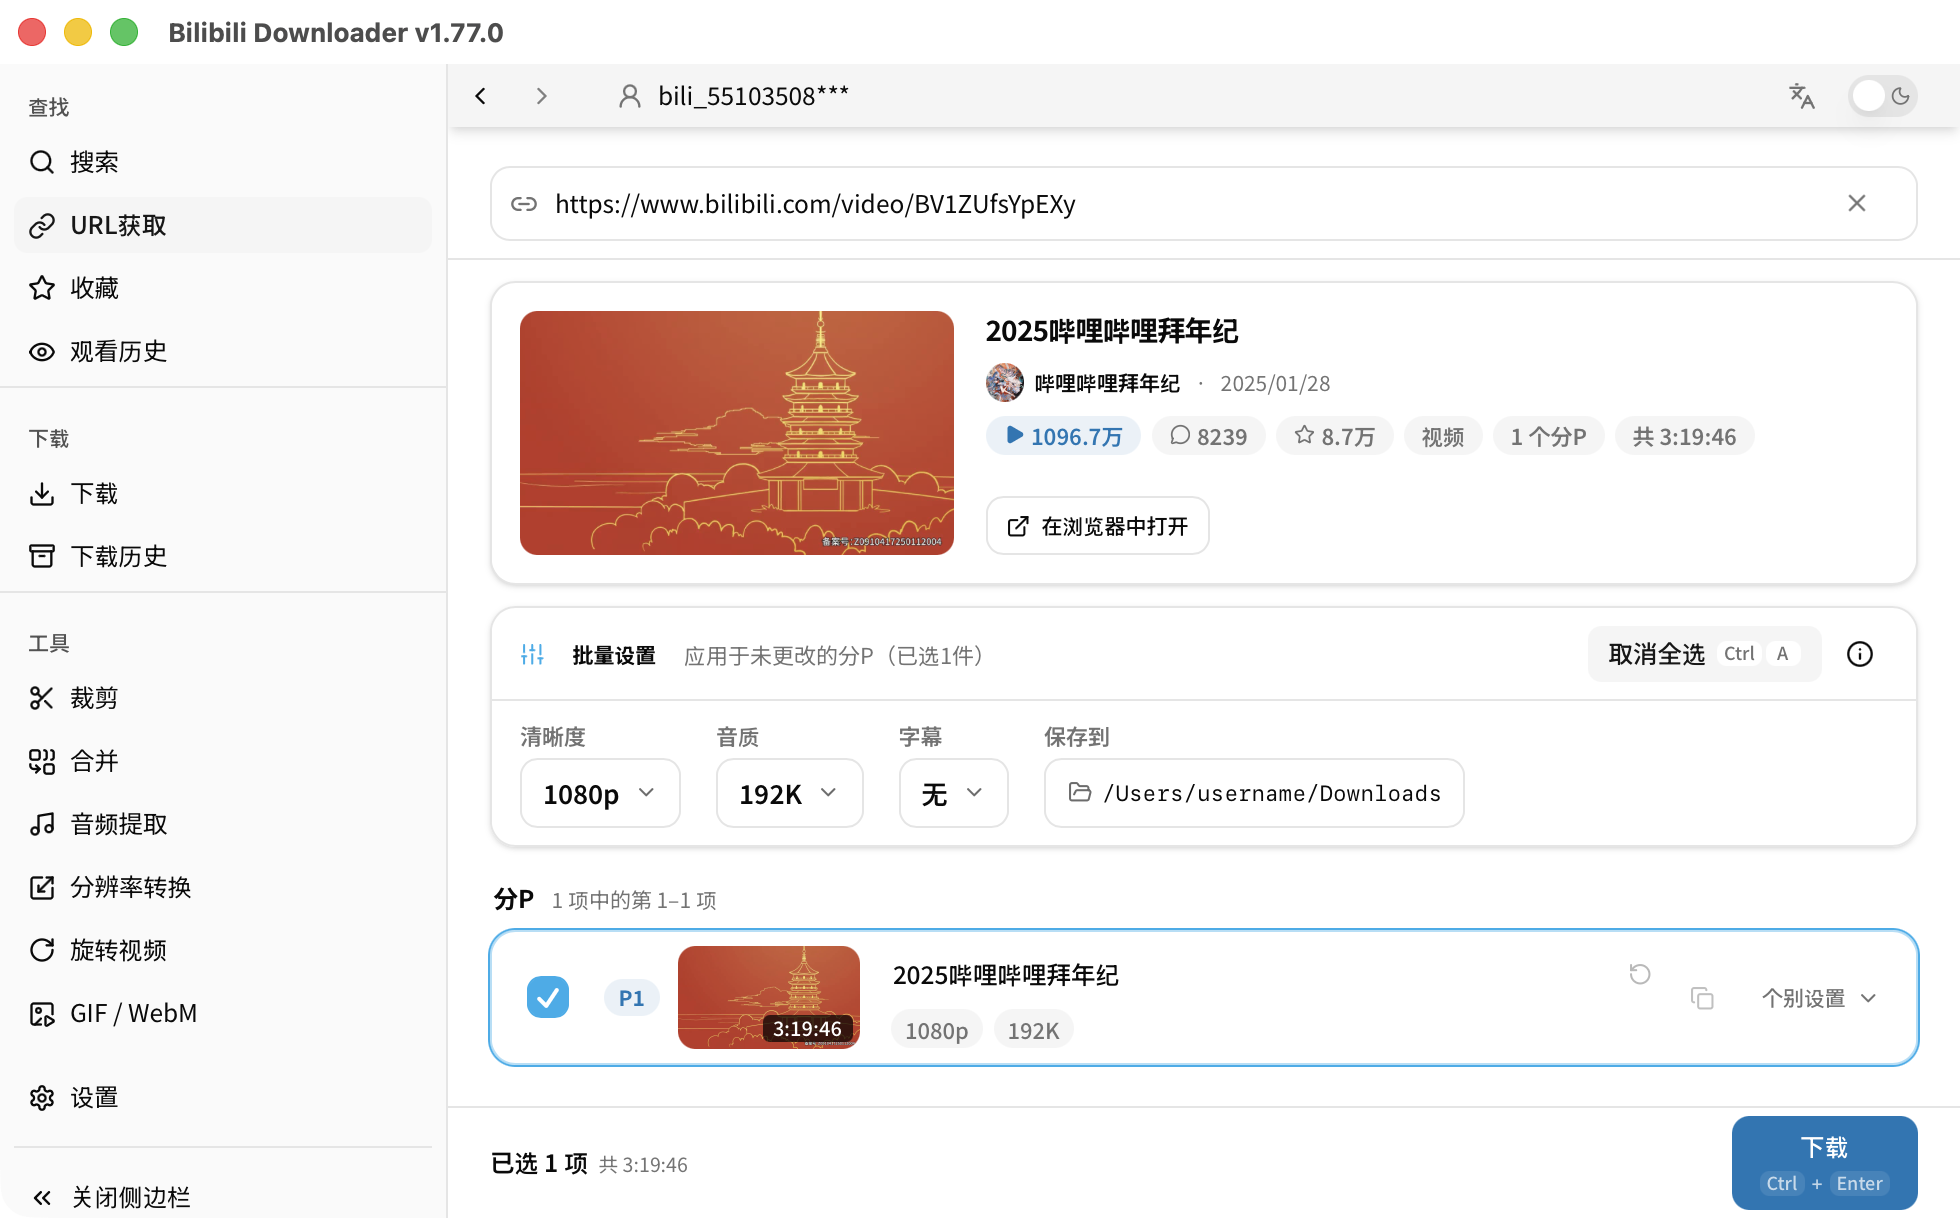
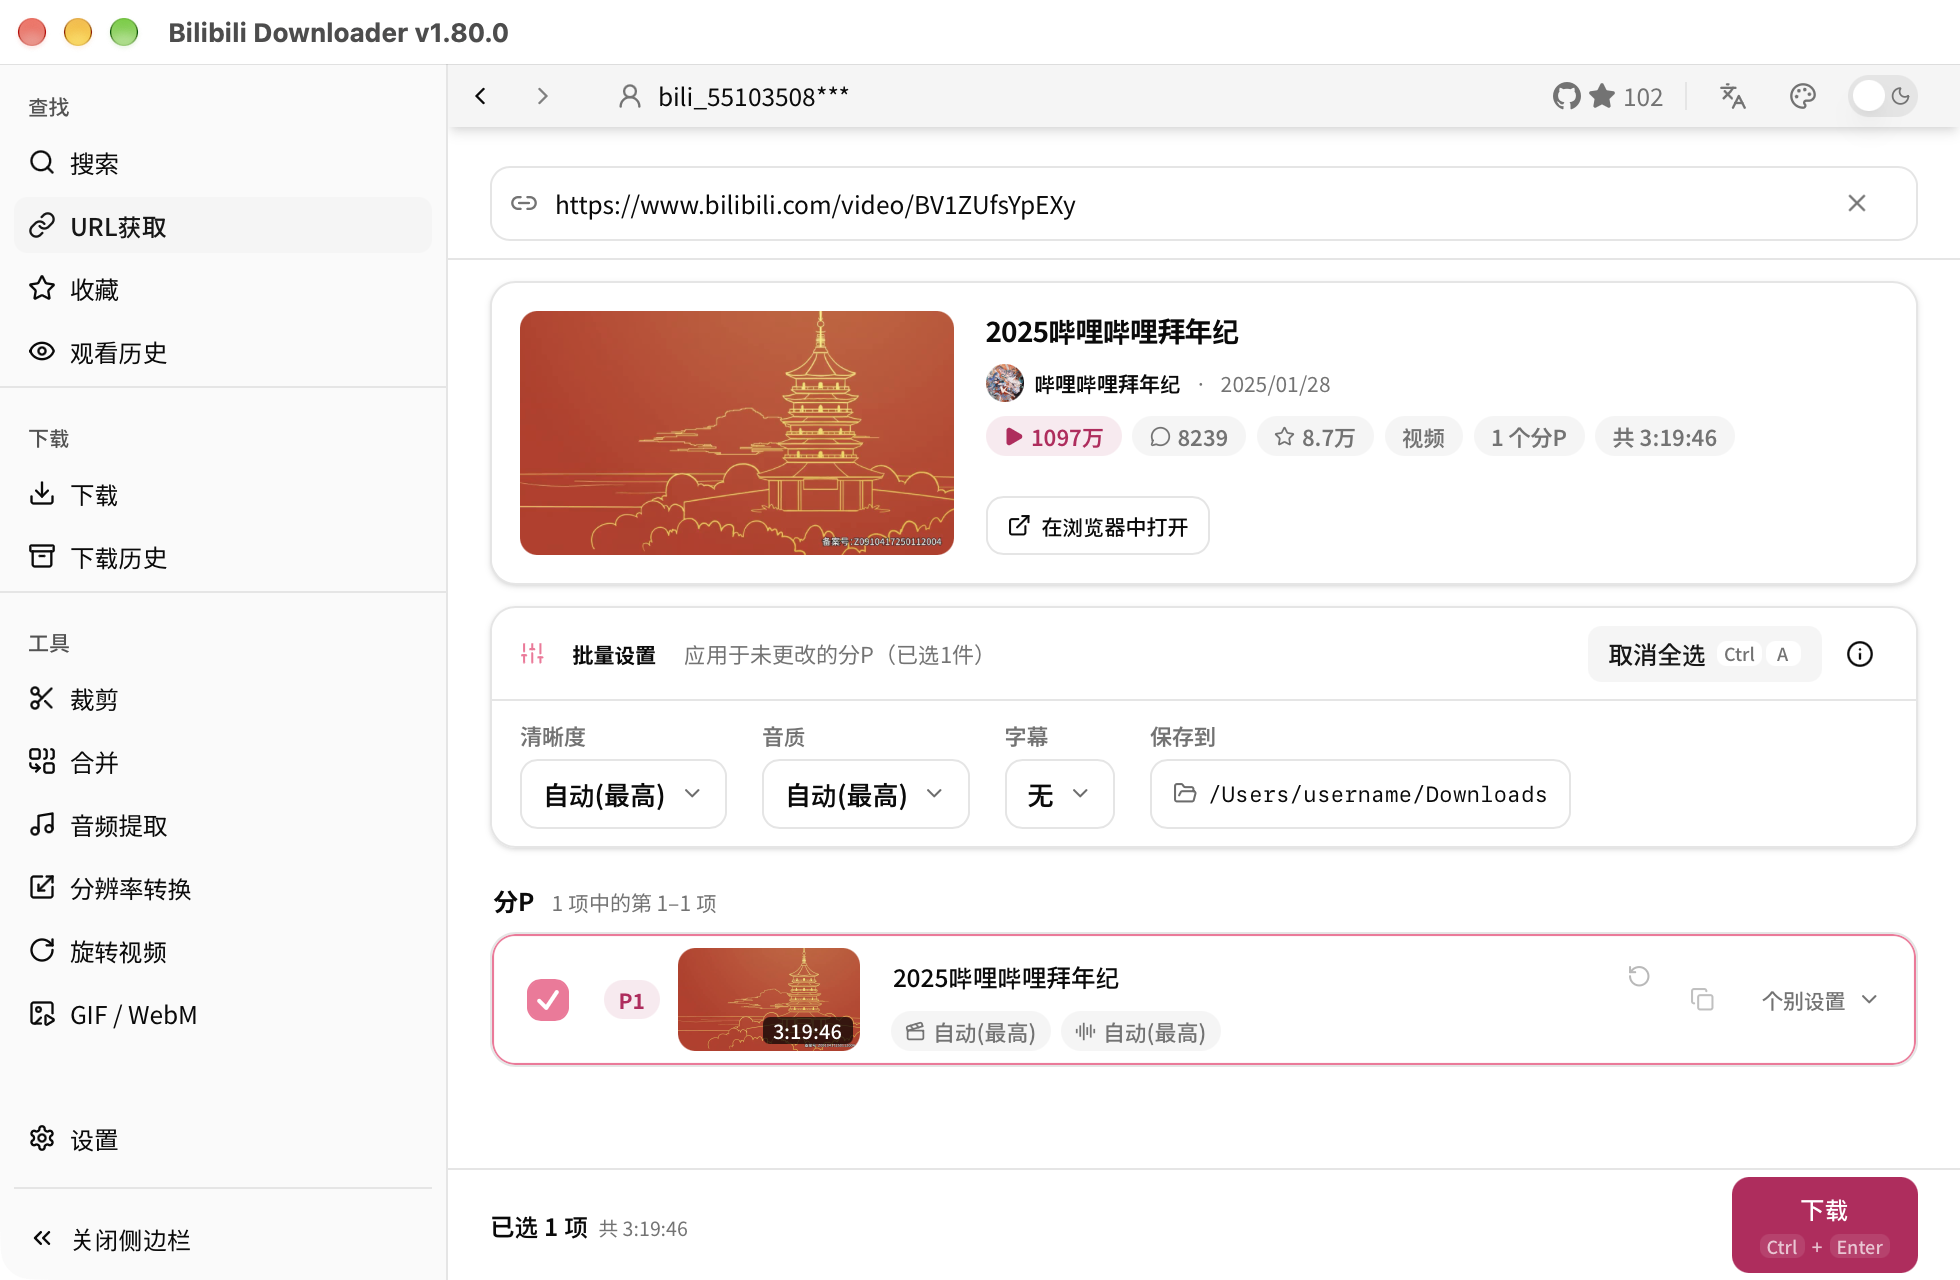
docs: refresh screenshots and add a theme preset gallery to README and GitHub Pages (#996)
## Summary

- Re-captured all 29 existing screenshots on v1.80.0:
- 24 README images (6 languages × Search / Fetch by URL × light/dark),
now 1960×1280 because the minimum window height rose in #979
- GitHub Pages hero/downloads WebP pairs, now captured with the macOS
title bar so the traffic lights stay in the image
- `og-image.png`, now in sync with the light search screenshot (the
previous one was an older "recommended videos" capture with third-party
thumbnails)
- Added a theme-preset gallery (the same search screen in four presets,
2×2) per language: `public/app-image(themes)_<lang>.webp` in the READMEs
and `docs/public/app-themes_<lang>.webp` in the Pages screenshots
section, with a localized heading.
- Added a featured "44 Theme Presets" card to the Pages feature grid,
with copy in all six locales.
- Synced the `Theming` feature bullet in the five non-English READMEs
with the English one (it still described accent colors).
- Updated the asset notes in `docs/README.md`.

Every capture shows only videos uploaded by bilibili's own account
(哔哩哔哩拜年纪), and the Save-to path reads `/Users/username/Downloads`.

## Related Issue

Closes #982

Follow-up filed while capturing: #995 (AppBar text is unreadable in dark
mode with most tweakcn presets; the gallery avoids those presets).

## Type of Change

- [ ] 🐛 Bug fix
- [ ] ✨ New feature
- [ ] 💥 Breaking change
- [x] 📝 Documentation
- [ ] ♻ Refactoring
- [ ] 🔧 Chore

## Test Plan
[…]

diff --git a/docs/src/i18n/ui.ts b/docs/src/i18n/ui.ts
@@ -171,6 +171,7 @@ const translations: Record<Lang, Record<string, unknown>> = {
       list: {
         search: "In-App Video Search",
         recommend: "Personalized Recommendations",
+        theme: "44 Theme Presets",
         download: "Video & Audio Download",
         quality: "Multiple Quality Options",
         subtitle: "Subtitle Download",
@@ -188,6 +189,8 @@ const translations: Record<Lang, Record<string, unknown>> = {
           "Search bilibili right inside the app — keyword search with suggestions, an infinite-scroll popular feed, and hover previews. No URL copying needed.",
         recommend:
           'Signed in? A "For you" shelf surfaces bilibili\'s real recommendation engine in 12 large cards, each tagged with why it was recommended.',
+        theme:
+          "Light and dark themes with 44 presets, including tweakcn themes. Switch presets from the palette button in the toolbar, and adjust the font size to taste.",
         download:
           "Save your favorite videos and music from Bilibili to watch offline anytime, anywhere.",
         quality:
@@ -222,6 +225,9 @@ const translations: Record<Lang, Record<string, unknown>> = {
         "Video search screen of Bilibili Downloader GUI showing keyword search results and the popular feed",
       downloadsAlt:
         "Downloads screen of Bilibili Downloader GUI with an active download and automatic audio/video merge",
+      themesTitle: "The same search screen in four of the 44 theme presets",
+      themesAlt:
+        "Bilibili Downloader GUI search screen shown four times, each with a different theme preset",
     },
     faqSection: {
       viewAll: "View all FAQs",
@@ -269,6 +275,7 @@ const translations: Record<Lang, Record<string, unknown>> = {
       list: {
         search: "アプリ内動画検索",
         recommend: "あなたへのおすすめ",
+        theme: "44種類のテーマプリセット",
         download: "動画・音声ダウンロード",
         quality: "複数の画質オプション",
         subtitle: "字幕ダウンロード",
@@ -286,6 +293,8 @@ const translations: Record<Lang, Record<string, unknown>> = {
           "URLをコピーせず、アプリの中でそのままbilibiliを検索。サジェスト付きキーワード検索、無限スクロールの人気フィード、ホバープレビューに対応しています。",
         recommend:
           "ログイン中は、bilibiliのレコメンドエンジンによる「あなたへのおすすめ」を大型カード12件で表示。おすすめの理由もバッジでわかります。",
+        theme:
+          "ライト/ダークに加えてtweakcnテーマを含む44種類のプリセットを搭載。ツールバーのパレットボタンから切り替えられ、文字サイズも調整できます。",
         download:
           "お気に入りの動画や音楽をBilibiliから保存して、いつでもどこでもオフラインで視聴できます。",
         quality:
@@ -319,6 +328,9 @@ const translations: Record<Lang, Record<string, unknown>> = {
         "Bilibili Downloader GUIの動画検索画面。キーワード検索結果と人気フィードの表示",
       downloadsAlt:
         "Bilibili Downloader GUIのダウンロード画面。ダウンロードの進行と音声・動画の自動結合の様子",
+      themesTitle: "同じ検索画面を、44種類あるテーマプリセットのうち4つで表示",
+      themesAlt:
+        "Bilibili Downloader GUIの検索画面を4種類のテーマプリセットで並べた画像",
     },
     faqSection: {
       viewAll: "よくある質問をすべて見る",
@@ -365,6 +377,7 @@ const translations: Record<Lang, Record<string, unknown>> = {
       list: {
         search: "应用内视频搜索",
         recommend: "专属推荐",
+        theme: "44种主题预设",
         download: "视频和音频下载",
         quality: "多种画质选项",
         subtitle: "字幕下载",
@@ -382,6 +395,8 @@ const translations: Record<Lang, Record<string, unknown>> = {
           "无需复制链接,直接在应用内搜索bilibili。支持带联想的关键词搜索、无限滚动的热门内容流和悬停预览。",
         recommend:
           "登录后,「为你推荐」版块以12张大卡片呈现bilibili真实推荐引擎的结果,每张卡片都标注推荐理由。",
+        theme:
+          "明暗双主题，并内置含tweakcn主题在内的44种预设。点击工具栏的调色板按钮即可切换，字体大小也可以调整。",
         download: "从Bilibili保存您喜爱的视频和音乐，随时随地离线观看。",
         quality:
           "从360p到4K画质任您选择。根据您的设备和网络速度选择最佳画质。\n最高可用画质取决于您的Bilibili会员等级。",
@@ -412,6 +427,8 @@ const translations: Record<Lang, Record<string, unknown>> = {
         "Bilibili Downloader GUI的视频搜索界面,显示关键词搜索结果与热门内容流",
       downloadsAlt:
         "Bilibili Downloader GUI的下载界面,显示下载进度与音视频自动合并",
+      themesTitle: "同一个搜索界面在44种主题预设中4种的显示效果",
+      themesAlt: "Bilibili Downloader GUI的搜索界面以4种主题预设并列展示",
     },
     faqSection: {
       viewAll: "查看全部常见问题",
@@ -458,6 +475,7 @@ const translations: Record<Lang, Record<string, unknown>> = {
       list: {
         search: "앱 내 동영상 검색",
         recommend: "맞춤 추천",
+        theme: "44가지 테마 프리셋",
         download: "비디오 및 오디오 다운로드",
         quality: "다양한 화질 옵션",
         subtitle: "자막 다운로드",
@@ -475,6 +493,8 @@ const translations: Record<Lang, Record<string, unknown>> = {
           "URL을 복사하지 않고 앱 안에서 바로 bilibili를 검색하세요. 자동완성 키워드 검색, 무한 스크롤 인기 피드, 마우스 오버 미리보기를 지원합니다.",
         recommend:
           "로그인하면 '당신을 위한 추천' 코너가 bilibili 추천 엔진의 결과를 12개의 큰 카드로 보여줍니다. 추천 이유 배지도 함께 표시됩니다.",
+        theme:
+          "라이트/다크 테마와 tweakcn 테마를 포함한 44가지 프리셋을 제공합니다. 툴바의 팔레트 버튼에서 전환할 수 있고 글자 크기도 조절할 수 있습니다.",
         download:
           "Bilibili에서 좋아하는 비디오와 음악을 저장하여 언제 어디서나 오프라인으로 시청하세요.",
         quality:
@@ -508,6 +528,9 @@ const translations: Record<Lang, Record<string, unknown>> = {
         "Bilibili Downloader GUI 동영상 검색 화면. 키워드 검색 결과와 인기 피드 표시",
       downloadsAlt:
         "Bilibili Downloader GUI 다운로드 화면. 진행 중인 다운로드와 오디오·비디오 자동 병합",
+      themesTitle: "같은 검색 화면을 44가지 테마 프리셋 중 4가지로 표시",
+      themesAlt:
+        "Bilibili Downloader GUI 검색 화면을 서로 다른 4가지 테마 프리셋으로 나타낸 이미지",
     },
     faqSection: {
       viewAll: "전체 FAQ 보기",
@@ -555,6 +578,7 @@ const translations: Record<Lang, Record<string, unknown>> = {
       list: {
         search: "Búsqueda de vídeos en la app",
         recommend: "Recomendaciones personalizadas",
+        theme: "44 presets de tema",
         download: "Descarga de video y audio",
         quality: "Múltiples opciones de calidad",
         subtitle: "Descarga de subtítulos",
@@ -572,6 +596,8 @@ const translations: Record<Lang, Record<string, unknown>> = {
           "Busca en Bilibili directamente en la app: búsqueda por palabra clave con sugerencias, feed popular con desplazamiento infinito y vistas previas al pasar el cursor. Sin copiar URLs.",
         recommend:
           "Con sesión iniciada, un estante «Para ti» muestra el motor de recomendaciones real de Bilibili en 12 tarjetas grandes, cada una con la razón de la recomendación.",
+        theme:
+          "Temas claro y oscuro con 44 presets, incluidos temas de tweakcn. Cambia de preset desde el botón de paleta de la barra de herramientas y ajusta el tamaño de la fuente.",
         download:
           "Guarda tus videos y música favoritos de Bilibili para verlos sin conexión en cualquier momento y lugar.",
         quality:
@@ -606,6 +632,10 @@ const translations: Record<Lang, Record<string, unknown>> = {
         "Pantalla de búsqueda de vídeos de Bilibili Downloader GUI con resultados de palabras clave y el feed popular",
       downloadsAlt:
         "Pantalla de descargas de Bilibili Downloader GUI con una descarga activa y fusión automática de audio/vídeo",
+      themesTitle:
+        "La misma pantalla de búsqueda en cuatro de los 44 presets de tema",
+      themesAlt:
+        "Pantalla de búsqueda de Bilibili Downloader GUI repetida cuatro veces, cada una con un preset de tema distinto",
     },
     faqSection: {
       viewAll: "Ver todas las preguntas frecuentes",
@@ -653,6 +683,7 @@ const translations: Record<Lang, Record<string, unknown>> = {
       list: {
         search: "Recherche vidéo dans l'app",
         recommend: "Recommandations personnalisées",
+        theme: "44 préréglages de thème",
         download: "Téléchargement vidéo et audio",
         quality: "Plusieurs options de qualité",
         subtitle: "Téléchargement de sous-titres",
@@ -670,6 +701,8 @@ const translations: Record<Lang, Record<string, unknown>> = {
           "Cherchez sur Bilibili directement dans l'app : recherche par mot-clé avec suggestions, fil populaire en défilement infini et aperçus au survol. Sans copier d'URL.",
         recommend:
           "Connecté, une étagère « Pour vous » affiche le vrai moteur de recommandations de Bilibili en 12 grandes cartes, chacune avec la raison de la recommandation.",
+        theme:
+          "Thèmes clair et sombre avec 44 préréglages, dont les thèmes tweakcn. Changez de préréglage depuis le bouton palette de la barre d'outils et ajustez la taille du texte.",
         download:
           "Enregistrez vos vidéos et musiques préférées de Bilibili pour les regarder hors ligne quand vous voulez.",
         quality:
@@ -704,6 +737,10 @@ const translations: Record<Lang, Record<string, unknown>> = {
         "Écran de recherche vidéo de Bilibili Downloader GUI avec les résultats de mots-clés et le fil populaire",
       downloadsAlt:
         "Écran de téléchargements de Bilibili Downloader GUI avec un téléchargement actif et la fusion automatique audio/vidéo",
+      themesTitle:
+        "Le même écran de recherche dans quatre des 44 préréglages de thème",
+      themesAlt:
+        "Écran de recherche de Bilibili Downloader GUI répété quatre fois, chacun avec un préréglage de thème différent",
     },
     faqSection: {
       viewAll: "Voir toutes les questions fréquentes",

diff --git a/README.fr.md b/README.fr.md
@@ -14,6 +14,8 @@
   <img src="./public/app-image(url)_fr_light.png" alt="App Image (Fetch by URL)">
 </picture>
 
+<img src="./public/app-image(themes)_fr.webp" alt="App Image (Theme Presets)">
+
 <img src="./public/app-demo_en.webp" alt="App Demo">
 
[1 lines of base64/hex data omitted]
@@ -118,7 +120,7 @@ Extrayez l'intégralité du ZIP avant d'exécuter le programme. Les deux éditio
 - **Configuration en un clic** - Installation automatique de FFmpeg avec validation du fonctionnement, sans configuration manuelle
 - **Mise à jour automatique** - Metteur à jour intégré avec vérification des versions signées et notes de version
 - **Recherche et exportation de l'historique** - Exportez l'historique de téléchargement en JSON/CSV
-- **Thèmes** - Thèmes clair/sombre, couleurs d'accentuation et taille de police réglable
+- **Thèmes** - Thèmes clair/sombre, 44 préréglages de thème (dont tweakcn) et taille de police réglable
 - **Page de démarrage** - Choisissez la page ouverte au lancement de l'application
 
 ### Méthodes d'authentification

diff --git a/README.es.md b/README.es.md
@@ -14,6 +14,8 @@
   <img src="./public/app-image(url)_es_light.png" alt="App Image (Fetch by URL)">
 </picture>
 
+<img src="./public/app-image(themes)_es.webp" alt="App Image (Theme Presets)">
+
 <img src="./public/app-demo_en.webp" alt="App Demo">
 
[1 lines of base64/hex data omitted]
@@ -117,7 +119,7 @@ Extrae el ZIP completo antes de ejecutar el programa. Ambas ediciones requieren 
 - **Configuración con un clic** - Instalación automática de FFmpeg con validación de funcionamiento, sin configuración manual
 - **Actualización automática** - Actualizador integrado con verificación de versiones firmadas y notas de versión
 - **Búsqueda y exportación de historial** - Exporta el historial de descargas a JSON/CSV
-- **Temas** - Temas claro/oscuro, colores de acento y tamaño de fuente ajustable
+- **Temas** - Temas claro/oscuro, 44 presets de tema (incl. tweakcn) y tamaño de fuente ajustable
 - **Página de inicio** - Elige qué página se abre al iniciar la aplicación
 
 ### Métodos de autenticación

diff --git a/README.ko.md b/README.ko.md
@@ -14,6 +14,8 @@
   <img src="./public/app-image(url)_ko_light.png" alt="App Image (Fetch by URL)">
 </picture>
 
+<img src="./public/app-image(themes)_ko.webp" alt="App Image (Theme Presets)">
+
 <img src="./public/app-demo_en.webp" alt="App Demo">
 
[1 lines of base64/hex data omitted]
@@ -114,7 +116,7 @@ Release 페이지에서는 포터블 Windows x64 ZIP 에디션 두 가지를 제
 - **원클릭 설정** - FFmpeg 자동 설치(기능 검증 포함), 수동 설정 불필요
 - **자동 업데이트** - 서명 검증 업데이터 및 릴리스 노트 내장
 - **기록 검색 및 내보내기** - 다운로드 기록을 JSON/CSV로 내보내기
-- **테마** - 라이트/다크 테마, 강조색, 글자 크기 조절
+- **테마** - 라이트/다크 테마, 44가지 테마 프리셋(tweakcn 테마 포함), 글자 크기 조절
 - **시작 페이지** - 앱 시작 시 열리는 페이지 선택
 
 ### 인증 방법

diff --git a/docs/README.md b/docs/README.md
@@ -63,10 +63,16 @@ npm run build && node scripts/check-seo.mjs
   locales in `src/i18n/ui.ts`
 - Screenshots ship as WebP pairs in `public/`: `app-search`(-light).webp
   (Hero) and `app-downloads`(-light).webp (screenshots section) — the
-  no-suffix file is the dark theme, `-light` the light one. Regenerate
-  both variants together (`magick <src>.png -resize 1600x <name>.webp`)
-  and keep `og-image.png` (1200px wide, PNG for OGP crawler compatibility)
-  in sync with the search screenshot
+  no-suffix file is the dark theme, `-light` the light one. Capture the
+  macOS window including its title bar (1200×652 pt at 2x) so the traffic
+  lights stay in the image, regenerate both variants together
+  (`magick <src>.png -resize 1600x869! -quality 92 <name>.webp`), and keep
+  `og-image.png` (1200px wide, PNG for OGP crawler compatibility) in sync
+  with the light search screenshot
+- `app-themes_<lang>.webp` (theme-preset gallery, 2×2, 1976×1296) is a copy
+  of the README's `public/app-image(themes)_<lang>.webp`; recapture both
+  together at the same size — `AppScreenshots.astro` hard-codes it as the
+  `width`/`height` attributes
 
 ### Search Console setup (one-time, manual)
 

diff --git a/README.md b/README.md
@@ -14,6 +14,8 @@ English | [日本語](README.ja.md) | [简体中文](README.zh.md) | [한국어]
   <img src="./public/app-image(url)_en_light.png" alt="App Image (Fetch by URL)">
 </picture>
 
+<img src="./public/app-image(themes)_en.webp" alt="App Image (Theme Presets)">
+
 <img src="./public/app-demo_en.webp" alt="App Demo">
 
[1 lines of base64/hex data omitted]
